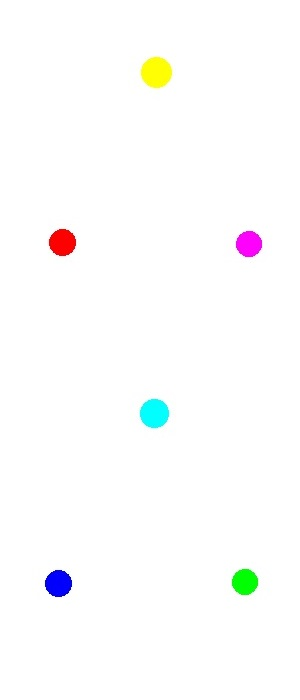
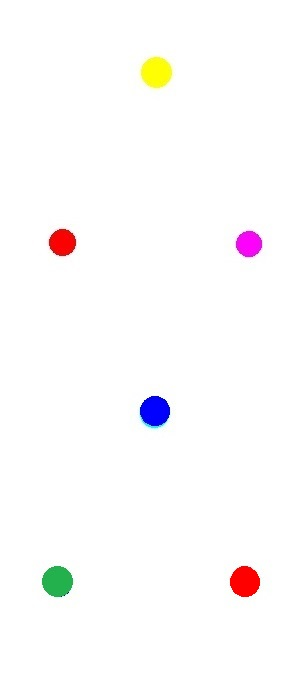
change fourmotor revise serverpage

Changed region(s): [[0.45, 0.54, 0.57, 0.63], [0.12, 0.81, 0.27, 0.87], [0.75, 0.81, 0.87, 0.87]]

diff --git a/ledserver/index.html b/ledserver/index.html
@@ -2,27 +2,9 @@
 <head>
 <meta http-equiv="Content-Type" content="text/html; charset=utf-8" /> 
 	<title>LED</title>
-	<style type="text/css">
-		div.state{
-			height: 50px;
-			padding-bottom: 20px;
-		}
-		#picmap{
-			margin: auto;
-			background: url('map.jpg');
-			width: 300px;
-			height: 700px;
-			border: 1px solid;
-		}
-		#posdot{
-			width: 20px;
-			height: 20px;
-			background: url('car.png');
-			margin-left: -10px;
-			margin-top: -10px;
-			position: relative;
-		}
-	</style>
+<link rel="stylesheet" type="text/css" href="css/toastr.min.css">
+<link rel="stylesheet" type="text/css" href="css/main.css">
+	
 </head>
 <body style="text-align:center">
 <div class="container" style="margin:auto">
@@ -32,15 +14,22 @@
 		Y:<input id="locy" class="form-control" type="text" value="">
 		角度(偏离正北顺时针):<input id="deg" class="form-control" type="text" value="">
 	</div>
-	<div id="picmap">
+	<div id="picmap" onclick="getXY(this)">
 		<div id="posdot"></div>
+	</div>
+	<div id="controlpannel">
+		<div class="panarrow" id="panup">UP</div>
+		<div class="panarrow" id="pandown">DOWN</div>
+		<div class="panarrow" id="panleft">LEFT</div>
+		<div class="panarrow" id="panright">RIGHT</div>
 	</div>
 </div>	
 <script type="text/javascript" src="jquery.js"></script>
+<script type="text/javascript" src="json2.min.js"></script>
+<script type="text/javascript" src="toastr.min.js"></script>
+
 <script type="text/javascript">
-clock();
-second=1;
-var int=self.setInterval("clock()",3000);
+
 function clock(){
 	$.ajax({
             url:'serverdata.txt',
@@ -48,6 +37,11 @@ function clock(){
 				receivedata=JSON.parse(data); 
 				$("#posdot").css("left",58+receivedata.X);
 				$("#posdot").css("top",583-receivedata.Y);
+	    		$("#posdot").css('-webkit-transform','rotate('+receivedata.D+'deg)');       
+	    		$("#posdot").css('-moz-transform','rotate('+receivedata.D+'deg)');       
+	    		$("#posdot").css('-ms-transform','rotate('+receivedata.D+'deg)'); 
+	    		$("#posdot").css('-o-transform','rotate('+receivedata.D+'deg)');       
+	    		$("#posdot").css('transform','rotate('+receivedata.D+'deg)');       
 				$("#locx").val(receivedata.X);
 				$("#locy").val(receivedata.Y);
 				$("#deg").val(receivedata.D);
@@ -55,6 +49,40 @@ function clock(){
 			}
 		});
 }
+function getXY(obj){
+     var x=0 ,y=0;
+     for(var Obj = obj; Obj; Obj = Obj.offsetParent)
+     {
+           x += parseInt(Obj.offsetLeft);
+           y += parseInt(Obj.offsetTop);
+     }
+     x = (event.clientX+document.body.scrollLeft-x)-58;
+     y = 583-(event.clientY+document.body.scrollTop -y);
+     //toastr.info("X="+x+"  Y="+y);
+     $.ajax({
+            url:'setpos.php?x='+x+'&y='+y,
+            success: function(data) {
+				receivedata=JSON.parse(data); 
+				toastr.info(receivedata.msg);
+
+			}
+		});
+}
+$(".panarrow").click(function(){
+	dir=$(this).attr("id").slice(3);
+	$.ajax({
+            url:'setdirect.php?mode='+dir,
+            success: function(data) {
+				receivedata=JSON.parse(data); 
+				toastr.info(receivedata.msg);
+
+			}
+		});
+
+})
+
+clock();
+var int=self.setInterval("clock()",3000);
 </script>
 </body>
 </html>

diff --git a/main.cpp b/main.cpp
@@ -21,7 +21,22 @@
 #define THRESH 30
 #define CAMERAID 0
 #define LENGTHINVISION 200
-#define DEMO		//comment to hide display; uncomment to show ,press ESC to capture
+//#define DEMO		//comment to hide display; uncomment to show ,press ESC to capture
+
+//front left motor
+#define FRONTLEFTMOTORFORPIN 8
+#define FRONTLEFTMOTORBACKPIN 9
+//front right motor
+#define FRONTRIGHTMOTORFORPIN 0
+#define FRONTRIGHTMOTORBACKPIN 2
+//behind left motor
+#define BEHINDLEFTMOTORFORPIN 10
+#define BEHINDLEFTMOTORBACKPIN 11
+//behind right motor
+#define BEHINDRIGHTMOTORFORPIN 5
+#define BEHINDRIGHTMOTORBACKPIN 4
+
+#define MOTORSTEPTIME 300
 
 using namespace cv;
 using namespace std;
@@ -128,9 +143,9 @@ int SelHSVcoltype(int h,int s){
 	if(h>=127&&h<=185)	//green
 		return 1;
 	else if(h>185&&h<=250)//blue
-		return 2;
-	else if(h>339||h<=21)//light blue
 		return 3;
+	else if(h>339||h<=21)//red
+		return 2;
 	/*
 	if(h>=220&&h<260)	//blue
 		return 1;
@@ -158,25 +173,36 @@ bool Checkpoints(Mat frame){
 	#ifdef DEMO 
 	imshow("S",mv[1]);
 	imwrite("imgS.jpg",mv[1]);
+	//imshow("H",mv[0]);
+	//imwrite("imgH.jpg",mv[0]);
+	//imshow("V",mv[2]);
+	//imwrite("imgV.jpg",mv[2]);
 	#endif
 	Mat Sthres;
-	threshold(mv[1],Sthres,200,255,CV_THRESH_BINARY);
+	threshold(mv[1],Sthres,80,255,CV_THRESH_BINARY);
 	#ifdef DEMO 
 	imshow("S",Sthres);
 	imwrite("imgthres.jpg",Sthres);
 	waitKey(0);
 	#endif
-	Mat imgSCanny;
-	//Canny(Sthres, imgSCanny, 50, 100);
+ 	Mat imgSCanny;
+
+//	findContours(img_erode, contours, CV_RETR_EXTERNAL, CV_CHAIN_APPROX_NONE);
 	findContours(Sthres, contours, CV_RETR_EXTERNAL, CV_CHAIN_APPROX_NONE);
-	
-	
+	/*
+	Mat cc = frame;
+	for (int j = 0; j < contours.size(); j++){
+		Scalar color(rand()&255, rand()&255, rand()&255);
+		drawContours(cc, contours, j, color);
+	}
+	imshow("contours", cc);
+	imwrite("contours.jpg",cc);
+	*/
 	vector<int> validcontour;
 	int validcenternum=0;
 	for(unsigned int i=0;i<contours.size();i++){
 		//cout<<contourArea(contours[i])<<endl;
-		if(contourArea(contours[i])>200){
-			
+		if(contourArea(contours[i])>1000){
 			validcontour.push_back(i);
 			Point2f pointcur;
 			pointcur.x=(int)minAreaRect(contours[i]).center.x;
@@ -193,11 +219,19 @@ bool Checkpoints(Mat frame){
 
 		}
 	}
+	#ifdef DEMO 
+	Mat ccc = frame;
+	for (int j = 0; j < validcenternum; j++){
+		Scalar color(rand()&255, rand()&255, rand()&255);
+		drawContours(ccc, contours, validcontour[j], color);
+	}
+	imshow("validcontours", ccc);
+	imwrite("validcontours.jpg",ccc);
+	#endif
 	if(validcontour.size()!=3){
 		cout<<"Err..Find "<<contours.size()<<" led!"<<endl;
 		return 0;
 	}
-	
 	int t;
 	for(t=0;t<3;t++){
 		cPointID[t]=SelHSVcoltype(imghsv.at<Vec3b>(circlecenter[t].y,circlecenter[t].x)[0]*2,imghsv.at<Vec3b>(circlecenter[t].y,circlecenter[t].x)[1]);  
@@ -210,6 +244,7 @@ bool Checkpoints(Mat frame){
 			return 0;
 		}
 	}
+	return 1;
 }
 
 LOC Examinepoint(LED led1, LED led2, LED led3){
@@ -247,26 +282,79 @@ LOC Examinepoint(LED led1, LED led2, LED led3){
 	return location;
 }
 
-//link port 0 and 1 to relay controlled motor
 void Turnleft(int time){
 	cout<<"turning left.."<<endl;
 	#ifdef _WIN32
 	#else
-	digitalWrite(1,HIGH);	
-	digitalWrite(0,LOW);
-	delay(500);
-	digitalWrite(0,HIGH);
+	digitalWrite(FRONTLEFTMOTORFORPIN,HIGH);	
+	digitalWrite(FRONTLEFTMOTORBACKPIN,LOW);
+	digitalWrite(FRONTRIGHTMOTORFORPIN,LOW);
+	digitalWrite(FRONTRIGHTMOTORBACKPIN,LOW);
+	digitalWrite(BEHINDLEFTMOTORFORPIN,HIGH);	
+	digitalWrite(BEHINDLEFTMOTORBACKPIN,LOW);
+	digitalWrite(BEHINDRIGHTMOTORFORPIN,LOW);
+	digitalWrite(BEHINDRIGHTMOTORBACKPIN,LOW);
+	delay(MOTORSTEPTIME);
+	digitalWrite(FRONTLEFTMOTORFORPIN,LOW);
+	digitalWrite(BEHINDLEFTMOTORFORPIN,LOW);
 	#endif
 }
 
 void Turnright(int time){
+	cout<<"turning right.."<<endl;
 	#ifdef _WIN32
 	#else
-	cout<<"turning right.."<<endl;
-	digitalWrite(0,HIGH);
-	digitalWrite(1,LOW);
-	delay(500);
-	digitalWrite(1,HIGH);
+	digitalWrite(FRONTLEFTMOTORFORPIN,LOW);	
+	digitalWrite(FRONTLEFTMOTORBACKPIN,LOW);
+	digitalWrite(FRONTRIGHTMOTORFORPIN,HIGH);
+	digitalWrite(FRONTRIGHTMOTORBACKPIN,LOW);
+	digitalWrite(BEHINDLEFTMOTORFORPIN,LOW);	
+	digitalWrite(BEHINDLEFTMOTORBACKPIN,LOW);
+	digitalWrite(BEHINDRIGHTMOTORFORPIN,HIGH);
+	digitalWrite(BEHINDRIGHTMOTORBACKPIN,LOW);
+	delay(MOTORSTEPTIME);
+	digitalWrite(FRONTRIGHTMOTORFORPIN,LOW);
+	digitalWrite(BEHINDRIGHTMOTORFORPIN,LOW);
+	#endif
+}
+
+void Straightforward(){
+	cout<<"Going forward.."<<endl;
+	#ifdef _WIN32
+	#else
+	digitalWrite(FRONTLEFTMOTORFORPIN,HIGH);	
+	digitalWrite(FRONTLEFTMOTORBACKPIN,LOW);
+	digitalWrite(FRONTRIGHTMOTORFORPIN,HIGH);
+	digitalWrite(FRONTRIGHTMOTORBACKPIN,LOW);
+	digitalWrite(BEHINDLEFTMOTORFORPIN,HIGH);	
+	digitalWrite(BEHINDLEFTMOTORBACKPIN,LOW);
+	digitalWrite(BEHINDRIGHTMOTORFORPIN,HIGH);
+	digitalWrite(BEHINDRIGHTMOTORBACKPIN,LOW);
+	delay(MOTORSTEPTIME);
+	digitalWrite(FRONTLEFTMOTORFORPIN,LOW);
+	digitalWrite(FRONTRIGHTMOTORFORPIN,LOW);
+	digitalWrite(BEHINDLEFTMOTORFORPIN,LOW);
+	digitalWrite(BEHINDRIGHTMOTORFORPIN,LOW);
+	#endif
+}
+
+void Straightbackward(){
+	cout<<"Going backward.."<<endl;
+	#ifdef _WIN32
+	#else
+	digitalWrite(FRONTLEFTMOTORFORPIN,LOW);	
+	digitalWrite(FRONTLEFTMOTORBACKPIN,HIGH);
+	digitalWrite(FRONTRIGHTMOTORFORPIN,LOW);
+	digitalWrite(FRONTRIGHTMOTORBACKPIN,HIGH);
+	digitalWrite(BEHINDLEFTMOTORFORPIN,LOW);	
+	digitalWrite(BEHINDLEFTMOTORBACKPIN,HIGH);
+	digitalWrite(BEHINDRIGHTMOTORFORPIN,LOW);
+	digitalWrite(BEHINDRIGHTMOTORBACKPIN,HIGH);
+	delay(MOTORSTEPTIME);
+	digitalWrite(FRONTLEFTMOTORBACKPIN,LOW);
+	digitalWrite(FRONTRIGHTMOTORBACKPIN,LOW);
+	digitalWrite(BEHINDLEFTMOTORBACKPIN,LOW);
+	digitalWrite(BEHINDRIGHTMOTORBACKPIN,LOW);
 	#endif
 }
 
@@ -277,7 +365,7 @@ int main(){
 	Mat img;
 	while(1){
 		while(1){
-			//Capturephoto();
+		//	Capturephoto();
 			img=imread("cpic.jpg");		//pic captured
 			//img=imread("yt2.jpg");	//test
 			if(Checkpoints(img))
@@ -351,16 +439,23 @@ int main(){
 		#else
 		//motor control
 		wiringPiSetup();
-		pinMode(0,OUTPUT);
-		pinMode(1,OUTPUT);
+		pinMode(FRONTLEFTMOTORFORPIN,OUTPUT);
+		pinMode(FRONTLEFTMOTORBACKPIN,OUTPUT);
+		pinMode(FRONTRIGHTMOTORFORPIN,OUTPUT);
+		pinMode(FRONTRIGHTMOTORBACKPIN,OUTPUT);
+		pinMode(BEHINDLEFTMOTORFORPIN,OUTPUT);
+		pinMode(BEHINDLEFTMOTORBACKPIN,OUTPUT);
+		pinMode(BEHINDRIGHTMOTORFORPIN,OUTPUT);
+		pinMode(BEHINDRIGHTMOTORBACKPIN,OUTPUT);
 		#endif
-
+//		position.positiondegree=344;
 		if(position.positiondegree>15&&position.positiondegree<180)
 			Turnleft(position.positiondegree);
 		else if(position.positiondegree<345&&position.positiondegree>180)
 			Turnright(position.positiondegree);
-		else
-			cout<<"Straight!";
+		else{
+			Straightforward();
+		}
 
 		Point circlecenterdraw[3];
 		for(int i=0;i<3;i++){
@@ -381,9 +476,9 @@ int main(){
 		//waitKey(0);
 		//destroyAllWindows();
 		#ifdef _WIN32
-			Sleep(2000);
+			Sleep(500);
 		#else
-			usleep(2000*1000);  
+			usleep(15000*1000);  
 		#endif
 	}
 }
